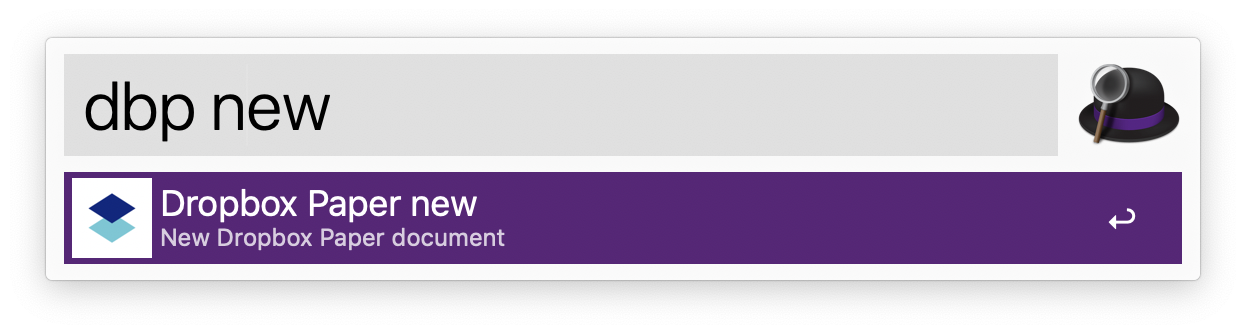
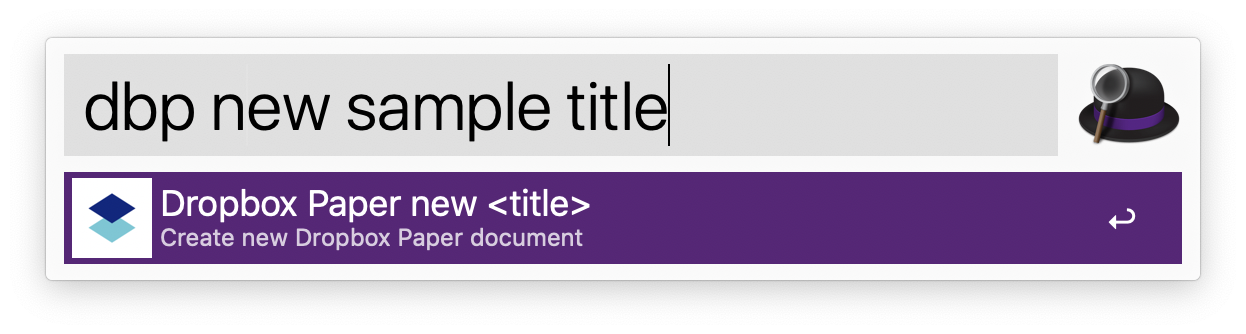
Improve the `new` action
- Input a document title and open the new document.

Changed region(s): [[0.2745, 0.2395, 0.549, 0.4192], [0.122, 0.6886, 0.488, 0.7485], [0.3965, 0.5689, 0.488, 0.6587]]

diff --git a/README.md b/README.md
@@ -19,26 +19,26 @@ Download and double-click.
 
 ## Usage
 
-### config
+### Config
 
 Register Dropbox access token. The access token saved in your "Keychain Access.app".
 
 ![](./images/config.png)
 
-### open
+### Open
 
 Open your Dropbox Paper documents.
 
 ![](./images/open.png)
 
-### copy
+### Copy
 
 Copy a selected document to the clipboard in Markdown format.
 
 ![](./images/copy.png)
 
-### new
+### New
 
-Open Dropbox Paper top page.
+Create a new Dropbox Paper document.
 
 ![](./images/new.png)
